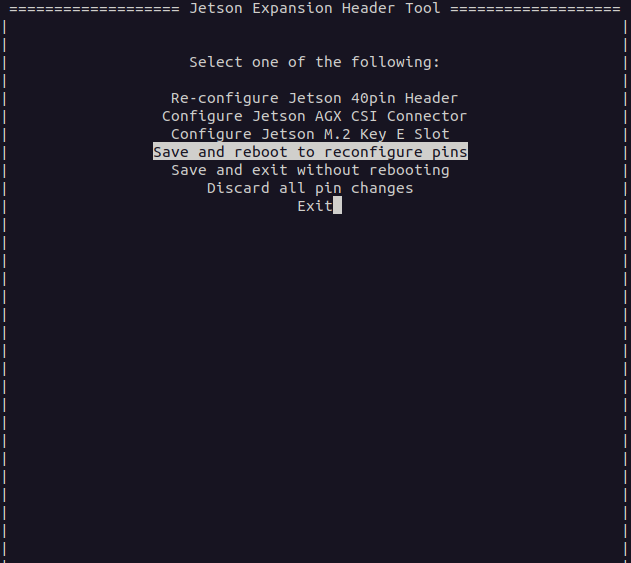
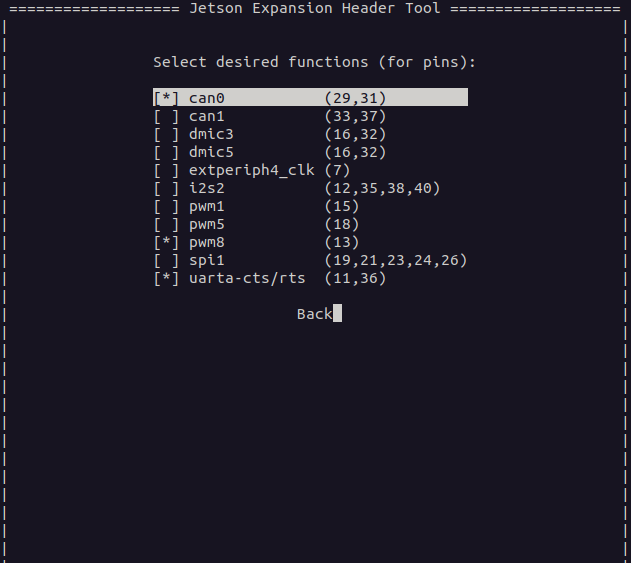
Cleaned up README so it's at least readable.  Missing a lot of details

Changed region(s): [[0.2409, 0.151, 0.7528, 0.5133], [0.2409, 0.0906, 0.7528, 0.1208], [0.4517, 0.5435, 0.542, 0.5737]]

diff --git a/README.md b/README.md
@@ -2,58 +2,62 @@
 
 ## System Update
 
-sudo apt install software-properties-common
-sudo add-apt-repository universe
-sudo apt update
-sudo apt upgrade -y
+    sudo apt install software-properties-common
+    sudo add-apt-repository universe
+    sudo apt update
+    sudo apt upgrade -y
 
 ## Install ROS
 
-sudo apt update && sudo apt install curl -y
-export ROS_APT_SOURCE_VERSION=$(curl -s https://api.github.com/repos/ros-infrastructure/ros-apt-source/releases/latest | grep -F "tag_name" | awk -F\" '{print $4}')
-curl -L -o /tmp/ros2-apt-source.deb "https://github.com/ros-infrastructure/ros-apt-source/releases/download/${ROS_APT_SOURCE_VERSION}/ros2-apt-source_${ROS_APT_SOURCE_VERSION}.$(. /etc/os-release && echo ${UBUNTU_CODENAME:-${VERSION_CODENAME}})_all.deb"
-sudo dpkg -i /tmp/ros2-apt-source.deb
+    sudo apt update && sudo apt install curl -y
+    export ROS_APT_SOURCE_VERSION=$(curl -s https://api.github.com/repos/ros-infrastructure/ros-apt-source/releases/latest | grep -F "tag_name" | awk -F\" '{print $4}')
+    curl -L -o /tmp/ros2-apt-source.deb "https://github.com/ros-infrastructure/ros-apt-source/releases/download/${ROS_APT_SOURCE_VERSION}/ros2-apt-source_${ROS_APT_SOURCE_VERSION}.$(. /etc/os-release && echo ${UBUNTU_CODENAME:-${VERSION_CODENAME}})_all.deb"
+    sudo dpkg -i /tmp/ros2-apt-source.deb
 
-sudo apt update
-sudo apt install ros-humble-ros-base
-sudo apt install ros-dev-tools
+    sudo apt update
+    sudo apt install ros-humble-ros-base
+    sudo apt install ros-dev-tools
 
-sudo rosdep init
-rosdep update
+    sudo rosdep init
+    rosdep update
 
 ## ZED Install
 
-wget https://download.stereolabs.com/drivers/zedx/1.4.0/R36.4/stereolabs-zedlink-duo_1.4.0-LI-MAX96712-L4T36.4.0_arm64.deb
-wget https://download.stereolabs.com/zedsdk/5.2/l4t36.4/jetsons
+    wget https://download.stereolabs.com/drivers/zedx/1.4.0/R36.4/stereolabs-zedlink-duo_1.4.0-LI-MAX96712-L4T36.4.0_arm64.deb
+    wget https://download.stereolabs.com/zedsdk/5.2/l4t36.4/jetsons
 
-sudo apt install zstd
+    sudo apt install zstd
 
-chmod +x jetsons
-./jetsons
+    chmod +x jetsons
+    ./jetsons
 
-sudo dpkg -i stereolabs-zedlink-duo_1.4.0-LI-MAX96712-L4T36.4.0_arm64.deb
-sudo apt install -f
+    sudo dpkg -i stereolabs-zedlink-duo_1.4.0-LI-MAX96712-L4T36.4.0_arm64.deb
+    sudo apt install -f
 
 ## Build Everything
 
-source /opt/ros/humble/setup.bash
+    source /opt/ros/humble/setup.bash
 
-mkdir -p ~/r2_ws/src
-cd ~/r2_ws/src
-git clone --recurse-submodules git@github.com:davesarmoury/R2Prime.git
-cd ..
-rosdep install --from-paths src --ignore-src -y
+    mkdir -p ~/r2_ws/src
+    cd ~/r2_ws/src
+    git clone --recurse-submodules git@github.com:davesarmoury/R2Prime.git
+    cd ..
+    rosdep install --from-paths src --ignore-src -y
 
 ## CAN
 
-sudo /opt/nvidia/jetson-io/jetson-io.py
+    sudo /opt/nvidia/jetson-io/jetson-io.py
 
-sudo ip link set can0 up type can bitrate 1000000
+![Jetson IO](docs/jetson-config-1.png)
+![Configure Header](docs/jetson-config-2.png)
+![Configure Manually](docs/jetson-config-3.png)
+![Configure Manually](docs/jetson-config-4.png)
+
+    sudo ip link set can0 up type can bitrate 1000000
 
 ## Spotify
 
-curl --proto '=https' --tlsv1.2 -sSf https://sh.rustup.rs | sh
+    curl --proto '=https' --tlsv1.2 -sSf https://sh.rustup.rs | sh
+    cargo install spotifyd --locked
 
-cargo install spotifyd --locked
-
-spotifyd
+    spotifyd -d R2D2
